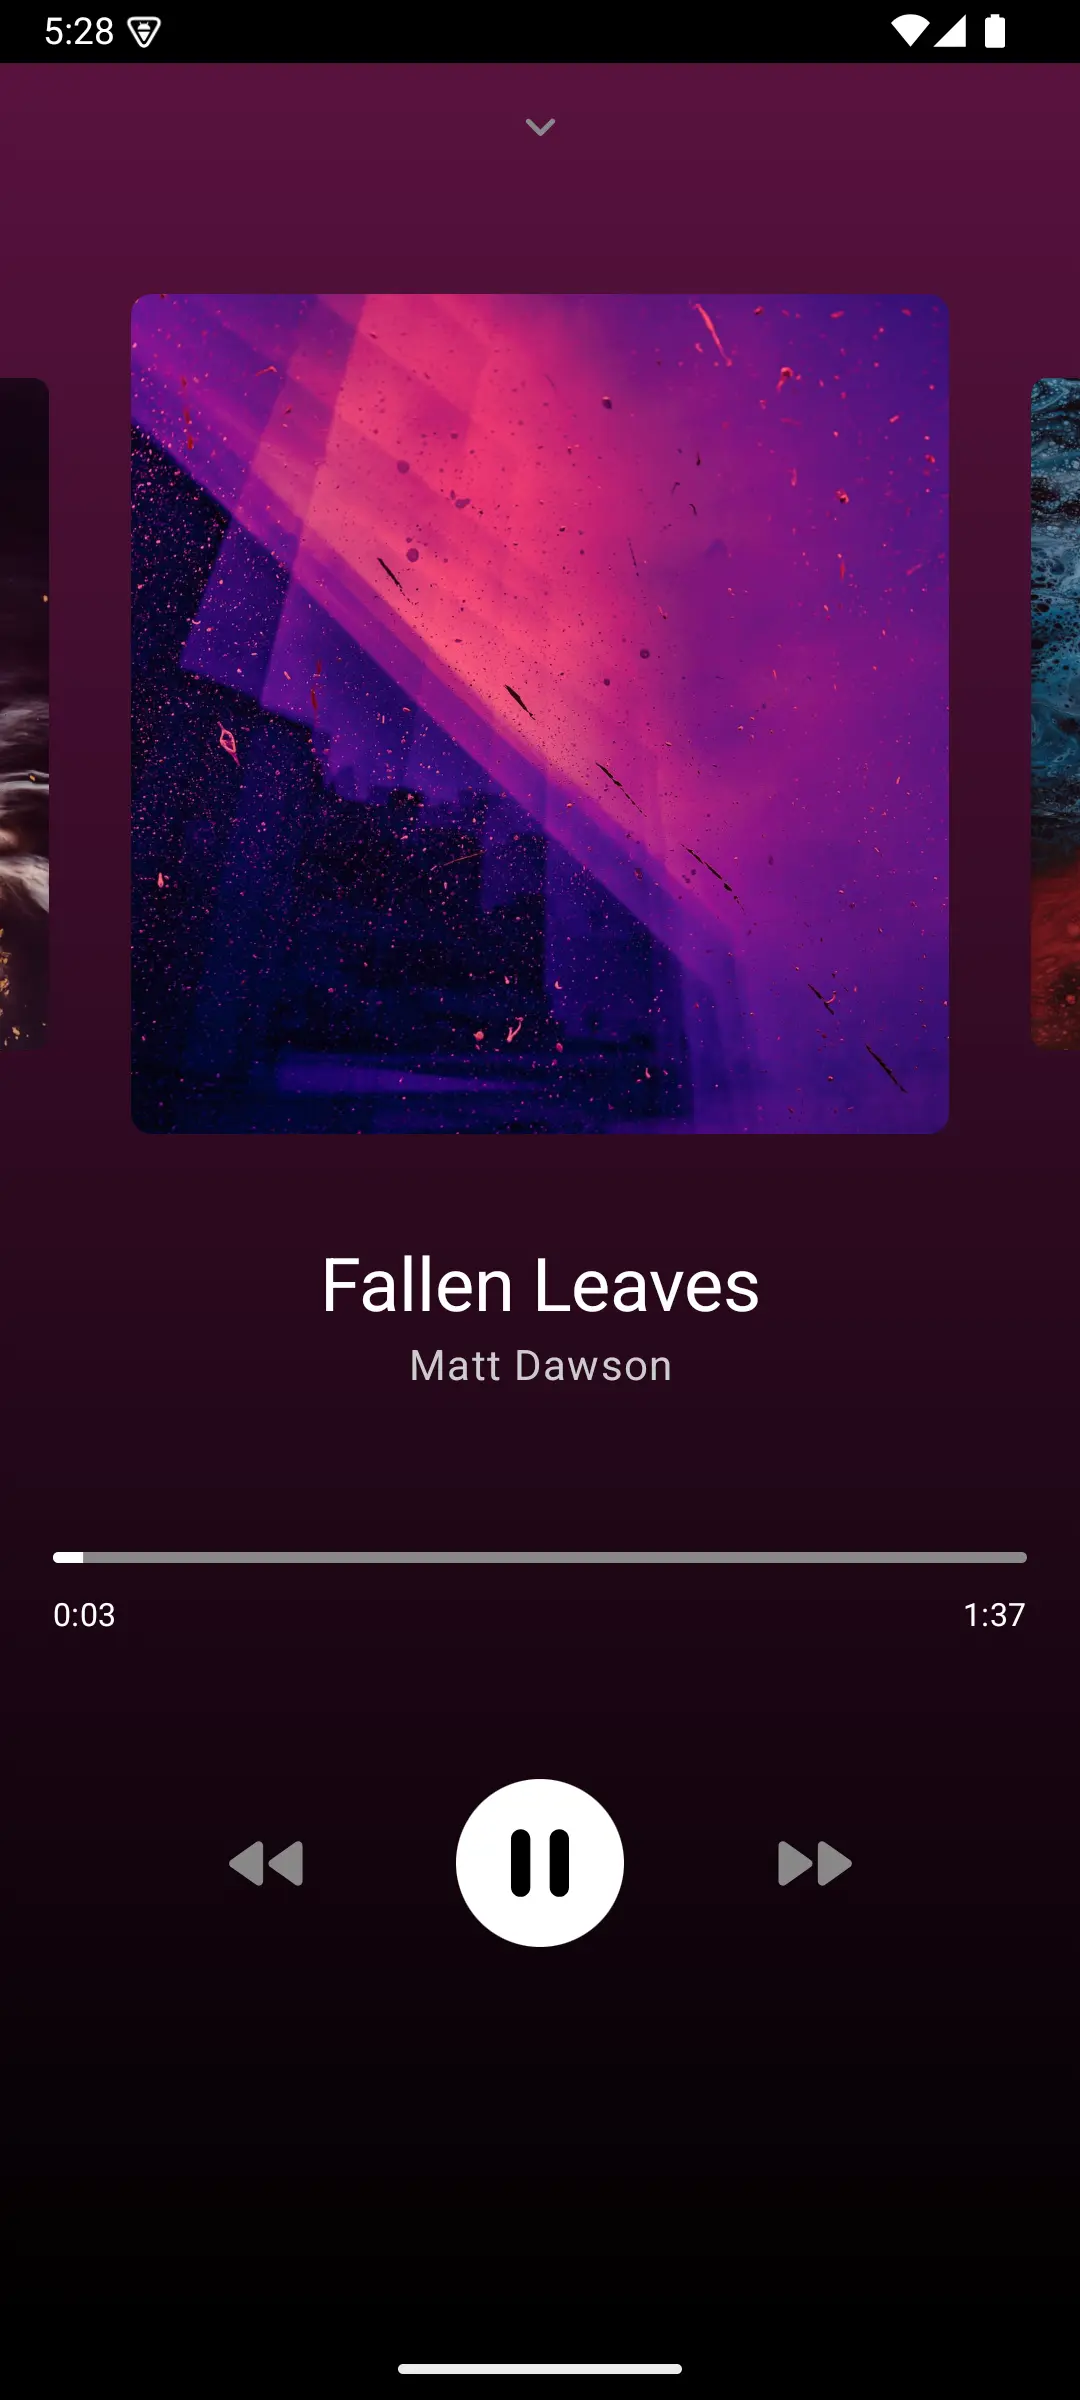
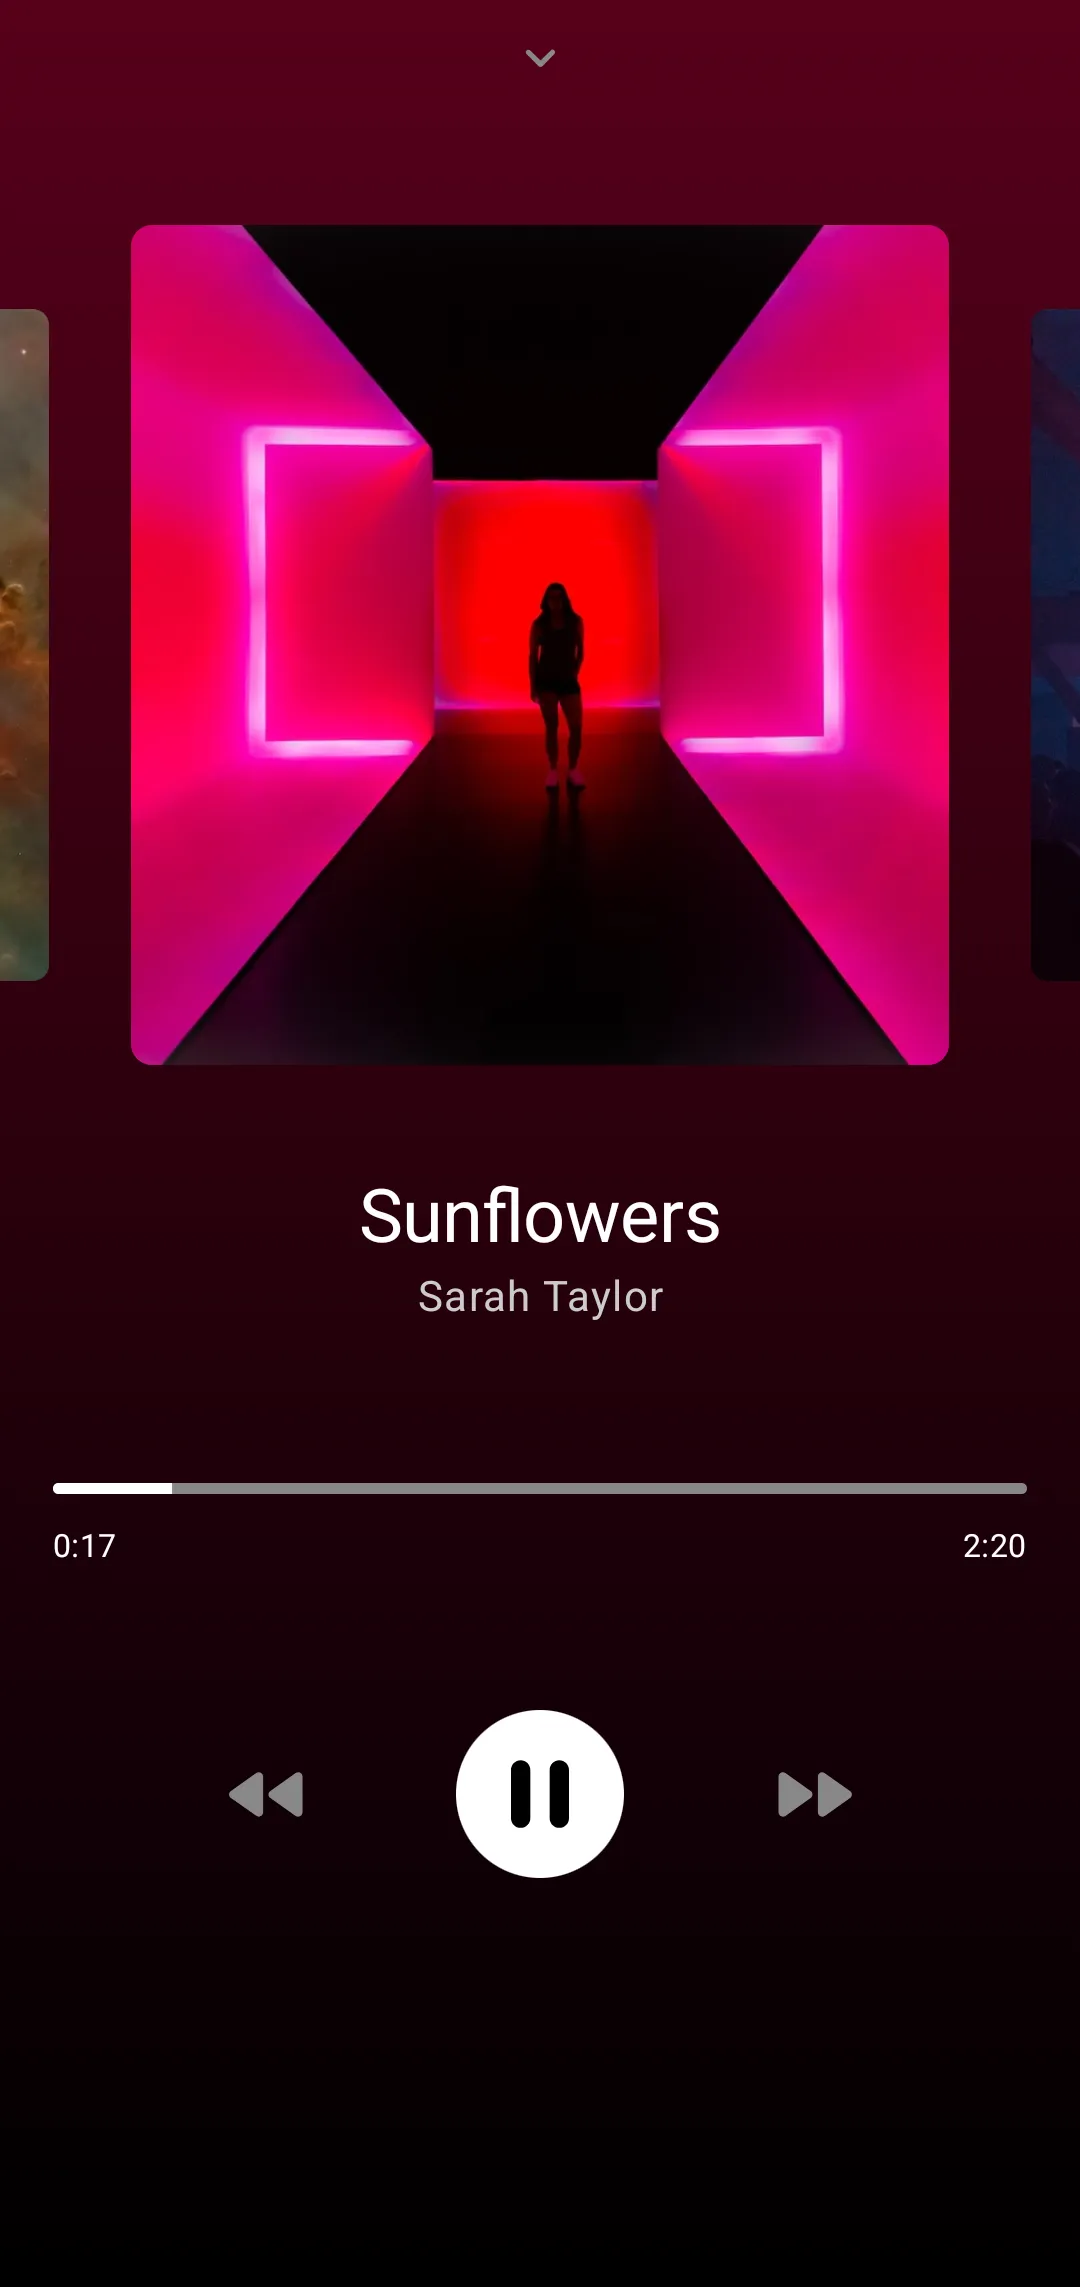
Update contact form text and music player images
Changed the contact form button text from 'Send Message' to 'Submit' and updated the error indicator in form labels from '!' to '*'. Also replaced music player project images with new versions.

diff --git a/components/ui/form.tsx b/components/ui/form.tsx
@@ -95,7 +95,7 @@ const FormLabel = React.forwardRef<
     return (
         <Label ref={ref} className={className} htmlFor={formItemId} {...props}>
             {children}
-            {error && <span className="text-destructive ml-1">!</span>}
+            {error && <span className="text-destructive ml-1">*</span>}
         </Label>
     );
 });

diff --git a/components/contact/contact-form.tsx b/components/contact/contact-form.tsx
@@ -163,7 +163,7 @@ export function ContactForm() {
                     ) : (
                         <>
                             <Send className="mr-2 h-4 w-4" />
-                            Send Message
+                            Submit
                         </>
                     )}
                 </Button>
